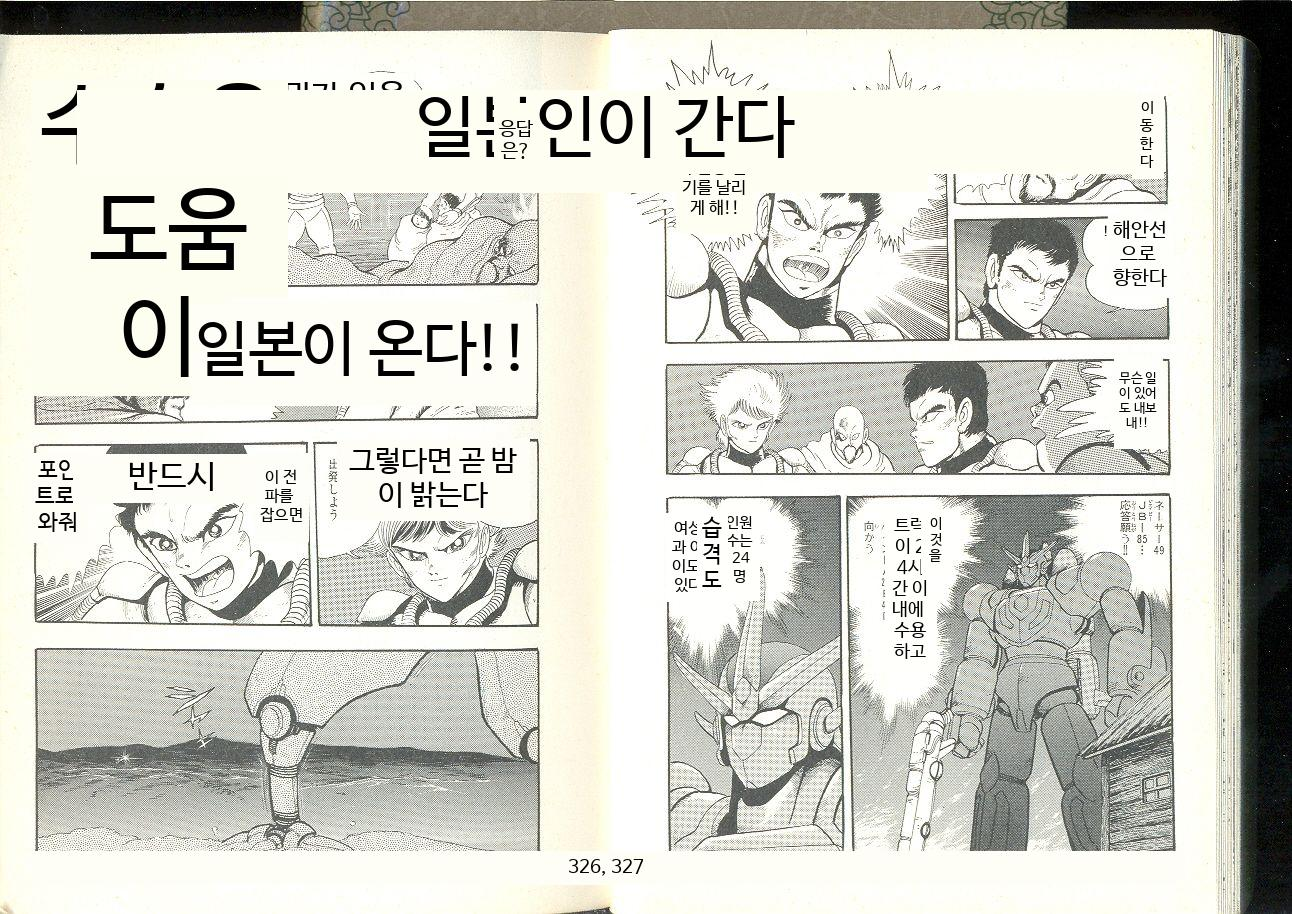
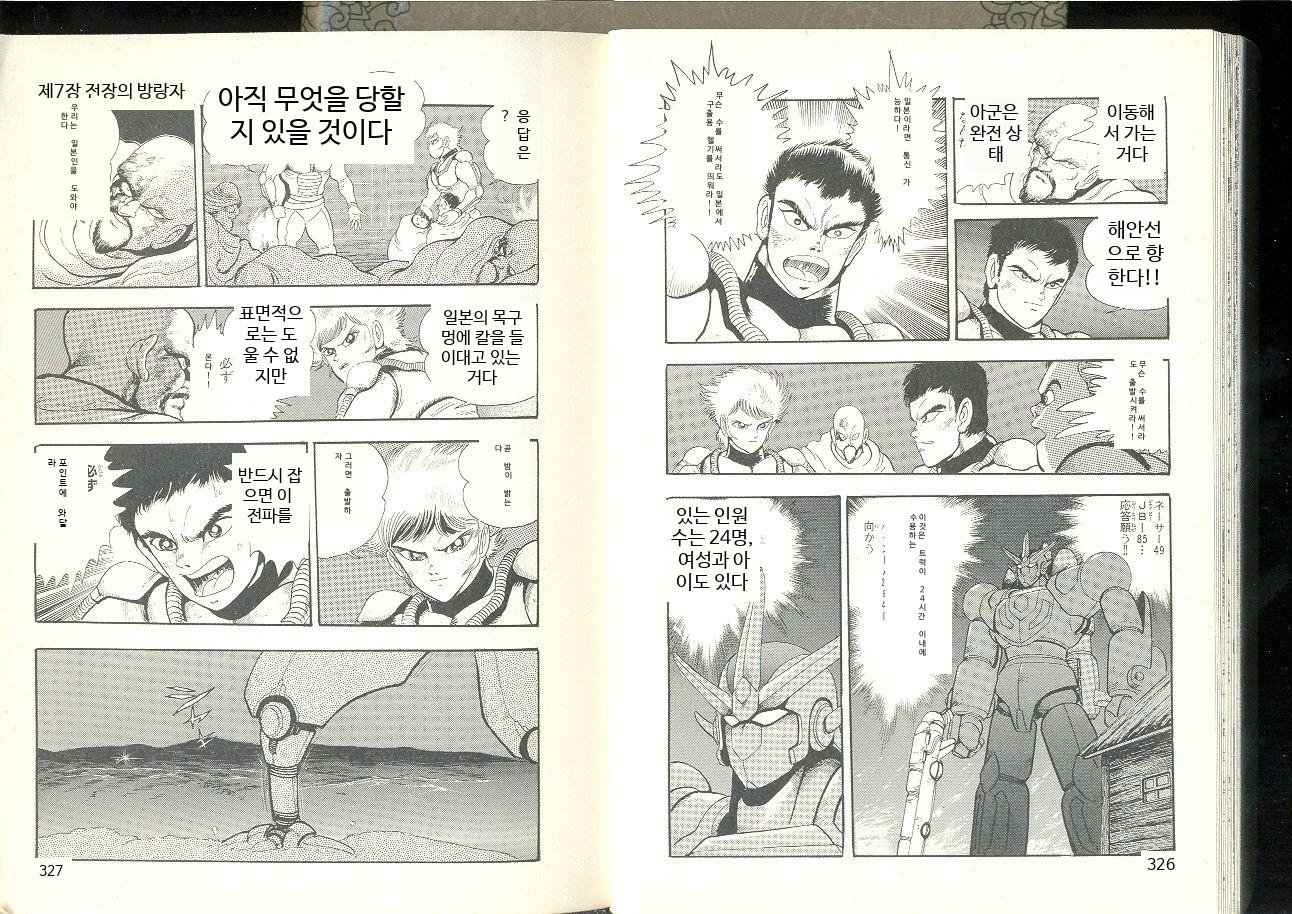
feat: bbox 좌표 기반 번역 그룹핑 + 세로쓰기 렌더링
- 번역 프롬프트에 bbox 중심 좌표(x,y) 포함
- LLM이 위치적으로 가까운 텍스트만 합치도록 유도
- 세로로 긴 영역(h > w*1.5)에서 세로쓰기 렌더링 (우→좌, 위→아래)
- 말풍선 단위 그룹핑으로 폰트 크기 과대 문제 해결
- _build_prompt 시그니처 변경: list[str] → list[dict] (bbox 포함)
- 테스트 수정 및 데모 이미지 업데이트

diff --git a/render.py b/render.py
@@ -108,6 +108,56 @@ def _wrap_text(text: str, font: ImageFont.FreeTypeFont, max_width: int) -> list[
     return lines or [""]
 
 
+def _render_vertical(
+    draw: ImageDraw.ImageDraw,
+    text: str,
+    x: int,
+    y: int,
+    box_w: int,
+    box_h: int,
+    text_color: tuple[int, int, int],
+    font_path: str,
+) -> None:
+    """세로로 긴 영역에 텍스트를 세로쓰기 렌더링 (우→좌, 위→아래)."""
+    # 폰트 크기: 박스 폭에 맞추되, 전체 높이를 넘지 않도록
+    n = len(text)
+    font_size = min(box_w, box_h // max(1, n))
+    font_size = max(MIN_FONT_SIZE, font_size)
+
+    # 더 많은 텍스트가 있으면 여러 열 사용
+    char_h = int(font_size * LINE_SPACING)
+    chars_per_col = max(1, box_h // char_h)
+    num_cols = math.ceil(n / chars_per_col)
+
+    # 여러 열일 때 폰트 크기 재조정 (열 폭에 맞추기)
+    col_w = int(font_size * LINE_SPACING)
+    if num_cols * col_w > box_w:
+        font_size = max(MIN_FONT_SIZE, box_w // max(1, num_cols) - 2)
+        char_h = int(font_size * LINE_SPACING)
+        chars_per_col = max(1, box_h // char_h)
+        col_w = int(font_size * LINE_SPACING)
+
+    font = ImageFont.truetype(font_path, font_size)
+
+    # 우→좌 세로쓰기
+    total_cols_w = num_cols * col_w
+    x_start = x + box_w - col_w - max(0, (box_w - total_cols_w) // 2)
+
+    col = 0
+    row = 0
+    for char in text:
+        cx = x_start - col * col_w
+        cy = y + row * char_h
+        char_bbox = font.getbbox(char)
+        char_w = char_bbox[2] - char_bbox[0]
+        cx_centered = cx + (col_w - char_w) // 2
+        draw.text((cx_centered, cy), char, fill=text_color, font=font)
+        row += 1
+        if row >= chars_per_col:
+            row = 0
+            col += 1
+
+
 def _erase_rect(
     draw: ImageDraw.ImageDraw,
     img: Image.Image,
@@ -182,22 +232,26 @@ def run_render(
         # 3단계: 전체 영역도 배경색으로 지우기 (bbox 사이 잔존 텍스트 제거)
         _erase_rect(draw, img, rx1, ry1, rx2, ry2)
 
-        # 4단계: 텍스트 렌더링 (항상 가로쓰기)
+        # 4단계: 텍스트 렌더링
         bg_color = _get_background_color(img, rx1, ry1, rx2, ry2)
         text_color = _get_text_color(bg_color)
 
-        font_size, lines = _calc_font_size(translated, rw, rh, font_file)
-        font = ImageFont.truetype(font_file, font_size)
+        # 영역이 세로로 길면 세로쓰기, 아니면 가로쓰기
+        if rh > rw * 1.5:
+            _render_vertical(draw, translated, rx1, ry1, rw, rh, text_color, font_file)
+        else:
+            font_size, lines = _calc_font_size(translated, rw, rh, font_file)
+            font = ImageFont.truetype(font_file, font_size)
 
-        total_text_h = int(len(lines) * font_size * LINE_SPACING)
-        y_offset = ry1 + (rh - total_text_h) // 2
+            total_text_h = int(len(lines) * font_size * LINE_SPACING)
+            y_offset = ry1 + (rh - total_text_h) // 2
 
-        for line in lines:
-            line_bbox = font.getbbox(line)
-            line_w = line_bbox[2] - line_bbox[0]
-            x_offset = rx1 + (rw - line_w) // 2
-            draw.text((x_offset, y_offset), line, fill=text_color, font=font)
-            y_offset += int(font_size * LINE_SPACING)
+            for line in lines:
+                line_bbox = font.getbbox(line)
+                line_w = line_bbox[2] - line_bbox[0]
+                x_offset = rx1 + (rw - line_w) // 2
+                draw.text((x_offset, y_offset), line, fill=text_color, font=font)
+                y_offset += int(font_size * LINE_SPACING)
 
     output_path = Path.cwd() / f"{img_path.stem}_rendered{img_path.suffix}"
     img.save(output_path)

diff --git a/translate.py b/translate.py
@@ -14,27 +14,35 @@ LANGUAGE_TRAITS = {
 }
 
 
-def _build_prompt(ocr_texts: list[str], source_lang: str, target_lang: str) -> str:
+def _build_prompt(ocr_results: list[dict], source_lang: str, target_lang: str) -> str:
     lang_trait = LANGUAGE_TRAITS.get(source_lang, f"원본 언어 코드: {source_lang}")
     target_name = {"ko": "한국어", "ja": "일본어", "en": "영어", "zh": "중국어"}.get(
         target_lang, target_lang
     )
 
-    return f"""이미지에서 OCR로 인식된 텍스트 조각들이 있습니다.
-이 텍스트들을 문맥을 고려하여 자연스러운 단어나 문장으로 조합한 뒤 {target_name}로 번역해주세요.
+    # 텍스트와 위치 정보를 함께 표시
+    text_lines = []
+    for i, r in enumerate(ocr_results):
+        xs = [p[0] for p in r["bbox"]]
+        ys = [p[1] for p in r["bbox"]]
+        cx, cy = int((min(xs) + max(xs)) / 2), int((min(ys) + max(ys)) / 2)
+        text_lines.append(f'{i}: "{r["text"]}" (위치: x={cx}, y={cy})')
+
+    return f"""이미지에서 OCR로 인식된 텍스트 조각들이 있습니다. 각 텍스트의 이미지 내 위치(x,y 좌표)도 함께 제공됩니다.
+이 텍스트들을 문맥과 **위치**를 고려하여 자연스러운 문장으로 조합한 뒤 {target_name}로 번역해주세요.
 
 ## 원본 언어 특성
 {lang_trait}
 
 ## 번역 규칙
-- OCR 특성상 하나의 문장이 여러 조각으로 쪼개져 있을 수 있습니다. 문맥상 이어지는 텍스트는 합쳐서 번역하세요.
-- 반대로 하나의 조각에 여러 문장이 섞여 있으면 분리하세요.
+- **위치가 가까운 텍스트만 합치세요.** 만화 이미지에서 각 말풍선은 서로 다른 위치에 있습니다. 좌표가 멀리 떨어진 텍스트는 별개의 말풍선이므로 절대 합치지 마세요.
+- 같은 말풍선 안에서 세로쓰기로 인해 쪼개진 텍스트는 합쳐서 번역하세요.
 - 효과음(의성어/의태어)도 번역하세요.
-- 인식 오류로 보이는 무의미한 문자(confidence가 낮은 깨진 글자)는 무시하세요.
+- 인식 오류로 보이는 무의미한 문자는 무시하세요.
 - 원본 텍스트의 뉘앙스와 어조를 살려 번역하세요.
 
-## 입력 텍스트 (인덱스: 텍스트)
-{chr(10).join(f"{i}: {t}" for i, t in enumerate(ocr_texts))}
+## 입력 텍스트
+{chr(10).join(text_lines)}
 
 ## 출력 형식
 반드시 아래 JSON 배열만 출력하세요. 설명이나 마크다운 없이 순수 JSON만:
@@ -43,7 +51,7 @@ def _build_prompt(ocr_texts: list[str], source_lang: str, target_lang: str) -> s
   {{"indices": [2], "translated": "번역된 단어"}}
 ]
 
-indices는 위 입력 텍스트의 인덱스 번호 배열입니다. 합쳐서 번역한 경우 여러 인덱스를 포함합니다."""
+indices는 위 입력 텍스트의 인덱스 번호 배열입니다. **위치가 가까운** 텍스트만 합치세요."""
 
 
 def _call_claude(prompt: str) -> str:
@@ -110,7 +118,7 @@ def run_translate(
 
     ocr_texts = [r["text"] for r in results]
 
-    prompt = _build_prompt(ocr_texts, source_lang, target_lang)
+    prompt = _build_prompt(results, source_lang, target_lang)
 
     if llm == "claude":
         response_text = _call_claude(prompt)

diff --git a/tests/test_translate.py b/tests/test_translate.py
@@ -49,28 +49,49 @@ class TestTranslateConstants:
 # --- 프롬프트 구성 테스트 ---
 
 
+def _make_ocr_results(texts):
+    """텍스트 리스트에서 bbox 포함 OCR 결과 dict 리스트 생성."""
+    return [
+        {
+            "bbox": [[i * 30, 0], [i * 30 + 20, 0], [i * 30 + 20, 20], [i * 30, 20]],
+            "text": t,
+            "confidence": 0.9,
+        }
+        for i, t in enumerate(texts)
+    ]
+
+
 class TestBuildPrompt:
     def test_prompt_contains_source_texts(self):
-        prompt = _build_prompt(["こんにちは", "世界"], "ja", "ko")
+        prompt = _build_prompt(_make_ocr_results(["こんにちは", "世界"]), "ja", "ko")
         assert "こんにちは" in prompt
         assert "世界" in prompt
 
     def test_prompt_contains_target_language(self):
-        prompt = _build_prompt(["hello"], "en", "ko")
+        prompt = _build_prompt(_make_ocr_results(["hello"]), "en", "ko")
         assert "한국어" in prompt
 
     def test_prompt_contains_language_traits(self):
-        prompt = _build_prompt(["テスト"], "ja", "ko")
+        prompt = _build_prompt(_make_ocr_results(["テスト"]), "ja", "ko")
         assert "세로쓰기" in prompt
 
     def test_prompt_contains_json_format_instruction(self):
-        prompt = _build_prompt(["test"], "en", "ko")
+        prompt = _build_prompt(_make_ocr_results(["test"]), "en", "ko")
         assert "indices" in prompt
         assert "translated" in prompt
 
     def test_prompt_for_chinese_mentions_right_to_left(self):
-        prompt = _build_prompt(["测试"], "zh", "ko")
+        prompt = _build_prompt(_make_ocr_results(["测试"]), "zh", "ko")
         assert "우→좌" in prompt
+
+    def test_prompt_contains_coordinates(self):
+        prompt = _build_prompt(_make_ocr_results(["テスト"]), "ja", "ko")
+        assert "x=" in prompt
+        assert "y=" in prompt
+
+    def test_prompt_warns_about_distance(self):
+        prompt = _build_prompt(_make_ocr_results(["a"]), "ja", "ko")
+        assert "멀리 떨어진" in prompt or "위치가 가까운" in prompt
 
 
 # --- LLM 응답 파싱 테스트 ---
@@ -257,11 +278,11 @@ class TestRunTranslateWithMock:
 
 class TestBuildPromptEdgeCases:
     def test_unknown_language_uses_code_fallback(self):
-        prompt = _build_prompt(["test"], "ar", "ko")
+        prompt = _build_prompt(_make_ocr_results(["test"]), "ar", "ko")
         assert "ar" in prompt
 
     def test_unknown_target_lang_uses_code(self):
-        prompt = _build_prompt(["test"], "en", "fr")
+        prompt = _build_prompt(_make_ocr_results(["test"]), "en", "fr")
         assert "fr" in prompt
 
     def test_empty_text_list(self):
@@ -269,10 +290,10 @@ class TestBuildPromptEdgeCases:
         assert "한국어" in prompt
 
     def test_text_indices_in_prompt(self):
-        prompt = _build_prompt(["aaa", "bbb", "ccc"], "en", "ko")
-        assert "0: aaa" in prompt
-        assert "1: bbb" in prompt
-        assert "2: ccc" in prompt
+        prompt = _build_prompt(_make_ocr_results(["aaa", "bbb", "ccc"]), "en", "ko")
+        assert "aaa" in prompt
+        assert "bbb" in prompt
+        assert "ccc" in prompt
 
 
 class TestParseLlmResponseEdgeCases:
